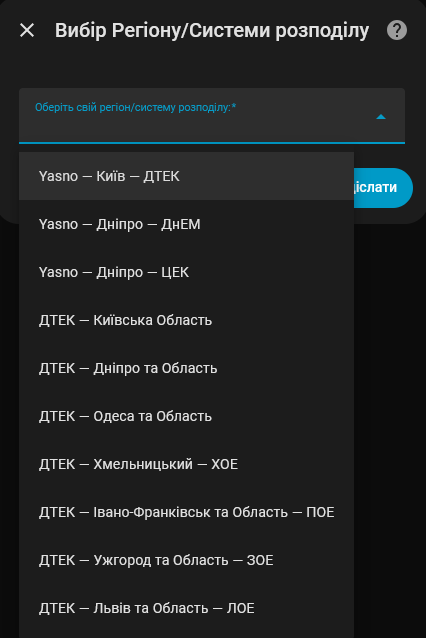
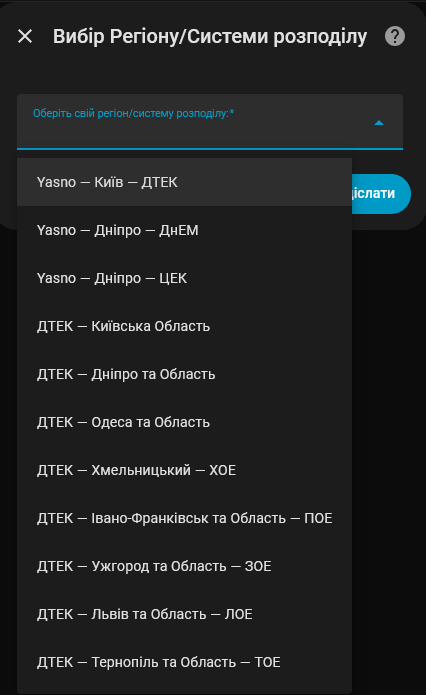
add Ternopil and Oblast

diff --git a/custom_components/svitlo_yeah/const.py b/custom_components/svitlo_yeah/const.py
@@ -79,4 +79,7 @@ DTEK_PROVIDER_URLS: dict[str, list[str]] = {
     "lviv": [
         "https://github.com/yaroslav2901/OE_OUTAGE_DATA/raw/main/data/Lvivoblenerho.json",
     ],
+    "ternopil": [
+        "https://github.com/yaroslav2901/OE_OUTAGE_DATA/raw/main/data/Ternopiloblenerho.json",
+    ],
 }

diff --git a/README.md b/README.md
@@ -28,6 +28,7 @@ A [Home Assistant][home-assistant] integration that tracks electricity outage sc
 | **Ivano-Frankivsk and Oblast** | POE      | [yaroslav2901/OE_OUTAGE_DATA](https://github.com/yaroslav2901/OE_OUTAGE_DATA/blob/main/data/Prykarpattiaoblenerho.json) |
 | **Uzhhorod and Oblast**        | ZOE      | [yaroslav2901/OE_OUTAGE_DATA](https://github.com/yaroslav2901/OE_OUTAGE_DATA/blob/main/data/Zakarpattiaoblenerho.json)  |
 | **Lviv and Oblast**            | LOE      | [yaroslav2901/OE_OUTAGE_DATA](https://github.com/yaroslav2901/OE_OUTAGE_DATA/blob/main/data/Lvivoblenerho.json)         |
+| **Ternopil and Oblast**        | TOE      | [yaroslav2901/OE_OUTAGE_DATA](https://github.com/yaroslav2901/OE_OUTAGE_DATA/blob/main/data/Ternopiloblenerho.json)         |
 
 
 ## Installation
